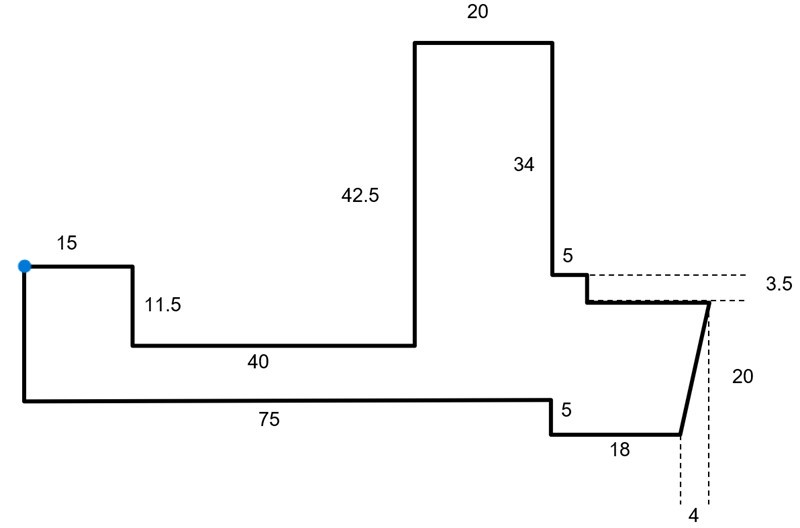
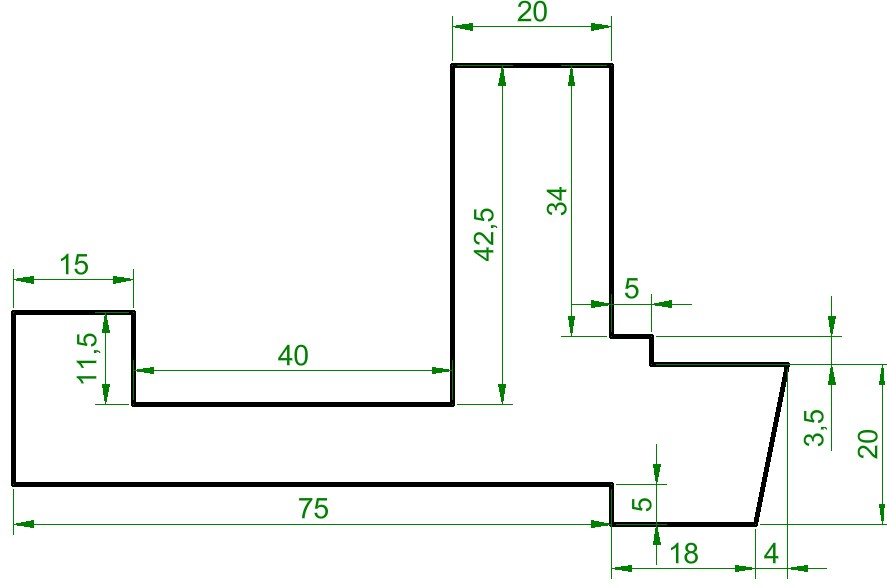
General update.

Changed region(s): [[0.0, 0.0, 1.0, 1.0], [0.4062, 0.3333, 0.4688, 0.3939], [0.9688, 0.7273, 1.0, 0.7879]]

diff --git a/activity/Readme.md b/activity/Readme.md
@@ -12,7 +12,7 @@ Durante el desarrollo del curso, los estudiantes presentarán los siguientes eje
 
 | Ejercicio              | Descripción                                                                                                                                                                                                                                                                                                                                                                                     | Figura                                                                        | P  |
 |:-----------------------|:------------------------------------------------------------------------------------------------------------------------------------------------------------------------------------------------------------------------------------------------------------------------------------------------------------------------------------------------------------------------------------------------|-------------------------------------------------------------------------------|:--:|
-| [M01A01E01](M01A01)    | Aplicando los conceptos aprendidos de coordenadas absolutas y relativas, dibuje manualmente la siguiente figura con coordenadas absolutas de origen (250,250).                                                                                                                                                                                                                                  | <img src="M01A01/graph/M01A01E01a.jpg" alt="R.SIGE" width="400" border="0" /> |    | 
+| [M01A01E01](M01A01)    | Aplicando los conceptos aprendidos de coordenadas absolutas y relativas, dibuje manualmente la siguiente figura con coordenadas absolutas de origen (250,250).                                                                                                                                                                                                                                  | <img src="M01A01/graph/M01A01E01.jpg" alt="R.SIGE" width="400" border="0" />  |    | 
 | [M01A01E02A](M01A01)   | Parte A: aplicando los conceptos aprendidos, cree secuencias de comandos (una con posiciones absolutas, otra con posiciones relativas y una final con ángulos) para la construcción de la figura presentada en el Ejercicio M01A00E01, pero con nodo de inicio en (X,Y) igual a los 2 últimos dígitos de su código de alumno.                                                                   |                                                                               |    | 
 | [M01A01E02B](M01A01)   | Parte B: utilizando secuencias de comandos, cree los siguientes elementos: 1. Triángulo rectángulo de 50 metros de base por 20 metros de alto con orígen en la coordenada absoluta indicada, 2. Triángulo equilátero de 50 metros de lado con orígen en la coordenada absoluta indicada, 3. Triángulo rectángulo con área de 200 m² y con orígen en la coordenada absoluta indicada.            |                                                                               |    | 
 | [M01A01E03](M01A01)    | Para practicar las herramientas de dibujo asistido, construiremos en clase el siguiente dibujo isométrico a partir de líneas, dibujaremos las vistas proyectadas y vistas planas lateral derecha, superior, frontal y posterior, calcularemos las áreas de cada cara proyectada y el volúmen total del sólido.                                                                                  | <img src="M01A01/graph/M01A01E03a.jpg" alt="R.SIGE" width="400" border="0" /> |    |
